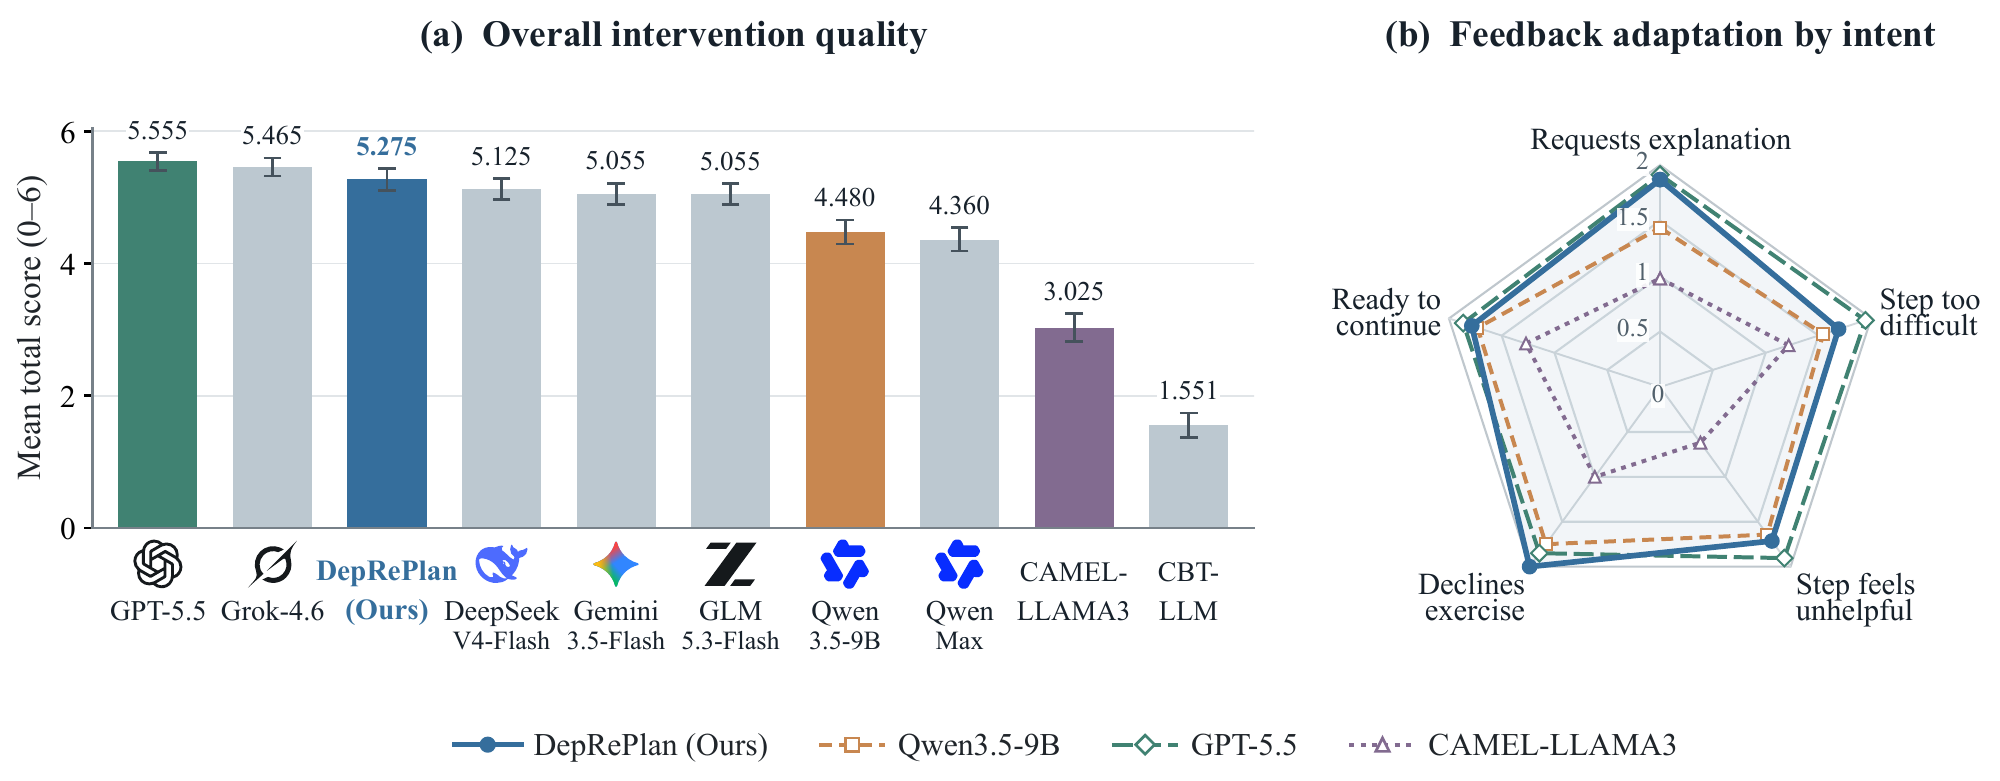
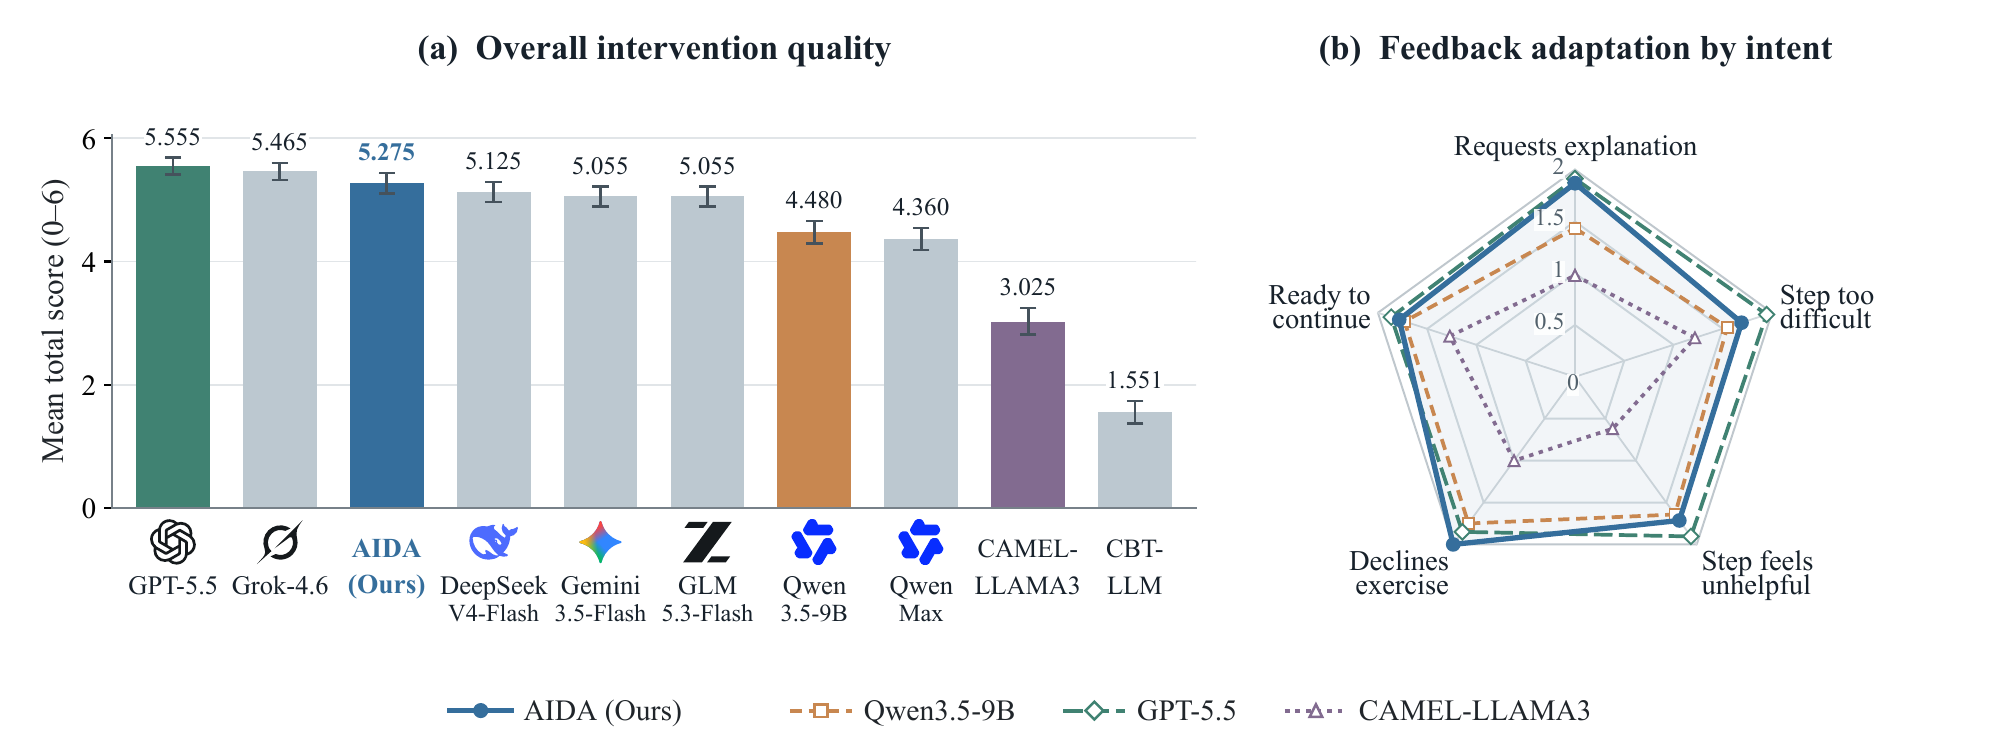
Align the AIDA project README and results figure with the manuscript

diff --git a/README.md b/README.md
@@ -1,16 +1,23 @@
-# DepRePlan
+# AIDA
 
-*From Multimodal Depression Assessment to Feedback-Guided Intervention in Brief Dialogues*
+*From Multimodal Depression Assessment to Feedback-Guided Intervention*
 
-A user who says *choosing is the hard part* gives a counselor a reason to change the next step. DepRePlan makes that decision explicit. A planner selects a cognitive behavioral therapy (CBT) technique and proposes an action. After hearing the user's response, it revises the plan under the same technique, and a dialogue model puts the revised action into words.
+**Assessment-Informed Dialogue Adaptation (AIDA)** connects multimodal depression assessment to a concrete intervention plan. When a user explains why a proposed step is difficult, the planner revises that step within the selected CBT technique.
 
-[Main results](#paper-results) · [Framework](#how-depreplan-works) · [DepGuide](#the-depguide-benchmark) · [Example dialogue](#an-example-dialogue) · [Paired analyses](#what-changes-after-feedback) · [Run a dialogue](#run-a-dialogue) · [Train](#train)
+<details>
+<summary>Paper abstract</summary>
+
+Multimodal interviews can reveal the severity of depressive symptoms. Using that assessment to guide psychological intervention requires choosing a first step that fits the person’s goals and adapting it when they explain what makes it difficult. We introduce Assessment-Informed Dialogue Adaptation (AIDA), a closed-loop framework that connects multimodal depression assessment to intervention through an explicit, revisable plan. AIDA estimates the severity of depressive symptoms from facial, acoustic, and linguistic cues. Its planner uses the user’s concern, goal, readiness to act, and available severity estimate to select a cognitive behavioral therapy (CBT) technique and specify an action. A dialogue model proposes that action. When the user reports an obstacle, the planner adjusts the focus or difficulty of the exercise within the same technique, guiding the model’s next reply. We also introduce DepGuide, a bilingual dataset and interactive benchmark comprising 1,292 decision trajectories. Each trajectory records the plans and replies before and after user feedback, providing supervision for planning, execution, and revision. Paired comparisons test how access to a severity score influences the initial plan and how revising that plan changes the next action. On the Wizard-of-Oz subset of the Distress Analysis Interview Corpus (DAIC-WOZ), AIDA predicts eight-item Patient Health Questionnaire (PHQ-8) scores with a mean absolute error (MAE) of 3.37 points. In automated evaluation on 200 DepGuide test scenarios, it scores 5.275 out of 6 for intervention quality across two replies, compared with 4.480 for its Qwen3.5-9B backbone. Even when the dialogue model receives the same history and user feedback, using the revised plan improves the combined score for feedback fit and action feasibility by 0.333 points out of 4. Code is available at [the AIDA repository](https://github.com/YiboWang2002/AIDA).
+
+</details>
+
+[Main results](#paper-results) · [Framework](#how-aida-works) · [DepGuide](#the-depguide-benchmark) · [Example dialogue](#an-example-dialogue) · [Paired analyses](#what-changes-after-feedback) · [Run a dialogue](#run-a-dialogue) · [Train](#train)
 
 ## Paper results
 
 ### Intervention quality on DepGuide
 
-**DepRePlan scored 5.275/6 across 200 test scenarios, ranking third among ten systems.** Its Qwen3.5-9B backbone scored 4.480/6 under direct generation. The paired gain was **0.795 points** (95% CI [0.566, 1.030]). The largest difference was in action feasibility, which rose from 1.375 to 1.680 out of 2.
+**AIDA scored 5.275/6 across 200 test scenarios, ranking third among ten systems.** Its Qwen3.5-9B backbone scored 4.480/6 under direct generation. The paired gain was **0.795 points** (95% CI [0.566, 1.030]). The largest difference was in action feasibility, which rose from 1.375 to 1.680 out of 2.
 
 **Table III. Two-reply intervention quality.** Each system receives the same opening. GPT-6 Luna simulates the user's feedback in response to that system's first reply and scores the completed exchange in a separate call with system identities hidden. Each dimension ranges from 0 to 2 and the total from 0 to 6. Bold scores mark the column maxima.
 
@@ -25,17 +32,17 @@ A user who says *choosing is the hard part* gives a counselor a reason to change
 | [DeepSeek-V4-Flash](https://arxiv.org/abs/2606.19348) | 1.750 | 1.620 | 1.755 | 5.125 |
 | [Grok-4.6](https://x.ai/news/grok-4-6) | 1.825 | **1.775** | 1.865 | 5.465 |
 | [GPT-5.5](https://openai.com/index/gpt-5-5-system-card/) | **1.920** | 1.730 | **1.905** | **5.555** |
-| **DepRePlan (Ours)** | 1.810 | 1.680 | 1.785 | 5.275 |
+| **AIDA (Ours)** | 1.810 | 1.680 | 1.785 | 5.275 |
 
 <p align="center">
   <a href="assets/intervention-profiles.png"><img src="assets/intervention-profiles.png" width="1000" alt="Ten systems compared by mean two-reply score, with 95% confidence intervals. A second panel compares feedback adaptation across five user intents."></a>
 </p>
 
-*Figure 4. The bars show total scores with 95% confidence intervals. The right panel separates five kinds of user feedback. DepRePlan scored higher than its backbone in all five. When users requested an explanation (46 scenarios), feedback adaptation averaged 1.870/2 for DepRePlan and 1.435/2 for the backbone.*
+*Figure 4. The bars show total scores with 95% confidence intervals. The right panel separates five kinds of user feedback. AIDA scored higher than its backbone in all five. When users requested an explanation (46 scenarios), feedback adaptation averaged 1.870/2 for AIDA and 1.435/2 for the backbone.*
 
 ### PHQ-8 prediction on DAIC-WOZ
 
-**Table II. Depression severity estimation on the 47 official test interviews.** DepRePlan combines participant speech transcripts, acoustic descriptors, and facial measurements to estimate one PHQ-8 total per interview. MAE and RMSE are measured in PHQ-8 points before clipping. NR indicates that the comparison did not report an RMSE.
+**Table II. Depression severity estimation on the 47 official test interviews.** AIDA combines participant speech transcripts, acoustic descriptors, and facial measurements to estimate one PHQ-8 total per interview. MAE and RMSE are measured in PHQ-8 points before clipping. NR indicates that the comparison did not report an RMSE.
 
 | Method | Input | MAE ↓ | RMSE ↓ |
 | --- | --- | :---: | :---: |
@@ -47,10 +54,10 @@ A user who says *choosing is the hard part* gives a counselor a reason to change
 | [MeBERT+ALL](https://aclanthology.org/2024.clinicalnlp-1.28/) | Text and lexicons | 3.59 | NR |
 | [Agarwal et al.](https://aclanthology.org/2024.lrec-main.87/) | Text | 3.52 | NR |
 | [LMIQ](https://aclanthology.org/2024.findings-emnlp.23/) | Text | 3.46 | 4.30 |
-| DepRePlan text (Ours) | Text | 3.38 | 4.22 |
-| **DepRePlan (Ours)** | Text, audio, visual | **3.37** | **4.21** |
+| AIDA text (Ours) | Text | 3.38 | 4.22 |
+| **AIDA (Ours)** | Text, audio, visual | **3.37** | **4.21** |
 
-## How DepRePlan works
+## How AIDA works
 
 **One proposal can elicit different obstacles.** In Figure 1, the same user who has lost a job might feel ready to edit a résumé or might find choosing among tasks overwhelming. The first response supports editing one line. The second calls for the counselor to narrow the choice.
 
@@ -93,13 +100,15 @@ DepGuide is a bilingual benchmark built around a decision trajectory. Each scena
 
 ## An example dialogue
 
-After an exam, the speaker wanted comfort from her mother. When the conversation turns to sending her a text, the user says she could do that but does not know how to begin. DepRePlan uses the speaker's own phrasing to suggest an opening line.
+After an exam, the speaker wanted comfort from her mother. When the conversation turns to sending her a text, the user says she could do that but does not know how to begin. AIDA uses the speaker's own phrasing to suggest an opening line.
 
 <p align="center">
-  <a href="assets/dialogue-case.png"><img src="assets/dialogue-case.png" width="1000" alt="A speaker wants comfort after an exam. When she says she could send a text but does not know how to begin, DepRePlan suggests an opening line using her words."></a>
+  <a href="assets/dialogue-case.png"><img src="assets/dialogue-case.png" width="1000" alt="A speaker wants comfort after an exam. When she says she could send a text but does not know how to begin, AIDA suggests an opening line using her words."></a>
 </p>
 
-*Figure 5. The opening translates the recorded speech, and the two subsequent user turns are simulated. DepRePlan generated this dialogue without a PHQ-8 score. The displayed 14.6/24 was estimated separately from the translated opening. The repository edition omits identifiable video frames in Figures 2 and 5.*
+*Figure 5. Seeking comfort after an exam. The opening translates the recorded speech, and the two later user turns are simulated.*
+
+The repository edition omits identifiable video frames in Figures 2 and 5.
 
 ## What changes after feedback?
 
@@ -121,12 +130,12 @@ After an exam, the speaker wanted comfort from her mother. When the conversation
 
 ### Expert review of the full exchange
 
-**Table IV. One blinded expert rated the first 60 pairs of complete dialogues in the randomized test order.** The expert gave DepRePlan the higher total in 46 pairs, equal totals in nine, and the lower total in five. The largest difference was in feedback adaptation. Each dimension is scored from 0 to 2 and the total from 0 to 6.
+**Table IV. One blinded expert rated the first 60 pairs of complete dialogues in the randomized test order.** The expert gave AIDA the higher total in 46 pairs, equal totals in nine, and the lower total in five. The largest difference was in feedback adaptation. Each dimension is scored from 0 to 2 and the total from 0 to 6.
 
 | Method | Goal fit ↑ | Action feasibility ↑ | Feedback adaptation ↑ | Total ↑ |
 | --- | :---: | :---: | :---: | :---: |
 | Qwen3.5-9B | 1.350 | 1.350 | 1.067 | 3.767 |
-| **DepRePlan (Ours)** | **1.900** | **1.900** | **1.800** | **5.600** |
+| **AIDA (Ours)** | **1.900** | **1.900** | **1.800** | **5.600** |
 
 ### Contributions of the planner and executor
 
@@ -136,7 +145,29 @@ After an exam, the speaker wanted comfort from her mother. When the conversation
 | --- | :---: | :---: | :---: | :---: | :---: |
 | Qwen3.5-9B | 4.480 | 4.308 | 4.738 | Reference |  |
 | Planner + backbone | 4.870 | 5.008 | 4.663 | +0.390 | [0.153, 0.597] |
-| **DepRePlan (Ours)** | **5.275** | **5.292** | **5.250** | +0.405 | [0.193, 0.629] |
+| **AIDA (Ours)** | **5.275** | **5.292** | **5.250** | +0.405 | [0.193, 0.629] |
+
+### Replies with assessment information
+
+**Table VII. Replies to user feedback in 120 DepGuide scenarios.** AIDA and its Qwen3.5-9B backbone receive the same synthetic PHQ-8 item scores. Within each pair, the simulated user expresses the same feedback intent in response to each system's proposal. Each metric is scored out of 2. The primary outcome is feedback adaptation. Paired differences are averaged across both presentation orders, with 95% confidence intervals from a source group bootstrap.
+
+| Metric ↑ | Qwen3.5-9B | AIDA (Ours) | Paired gain | 95% CI |
+| --- | :---: | :---: | :---: | :---: |
+| Feedback adaptation | 1.550 | 1.646 | +0.096 | [−0.033, 0.227] |
+| Action feasibility | 1.475 | 1.746 | **+0.271** | **[0.157, 0.387]** |
+| Response focus | 1.246 | 1.854 | **+0.608** | **[0.521, 0.697]** |
+
+### Sensitivity to source composition
+
+**Table VIII. Paired gains after excluding source families.** Each row excludes every test case in a source group represented by the named family. On the same retained cases, exchange gain compares AIDA with direct backbone generation (out of 6), and revision gain compares revised and original plans under fixed feedback (out of 4). The MIRROR/ESConv family includes FailedESConv.
+
+| Excluded family | Retained cases | Retained groups | Exchange gain | Revision gain |
+| --- | :---: | :---: | :---: | :---: |
+| CPsDD | 130 | 114 | +0.708 | +0.335 |
+| CACTUS | 150 | 134 | +0.827 | +0.380 |
+| DESC | 150 | 141 | +0.760 | +0.263 |
+| MIRROR/ESConv | 160 | 150 | +0.856 | +0.316 |
+| Psy-Insight/PsyDTCorpus | 190 | 171 | +0.811 | +0.342 |
 
 ## Run a dialogue
 
